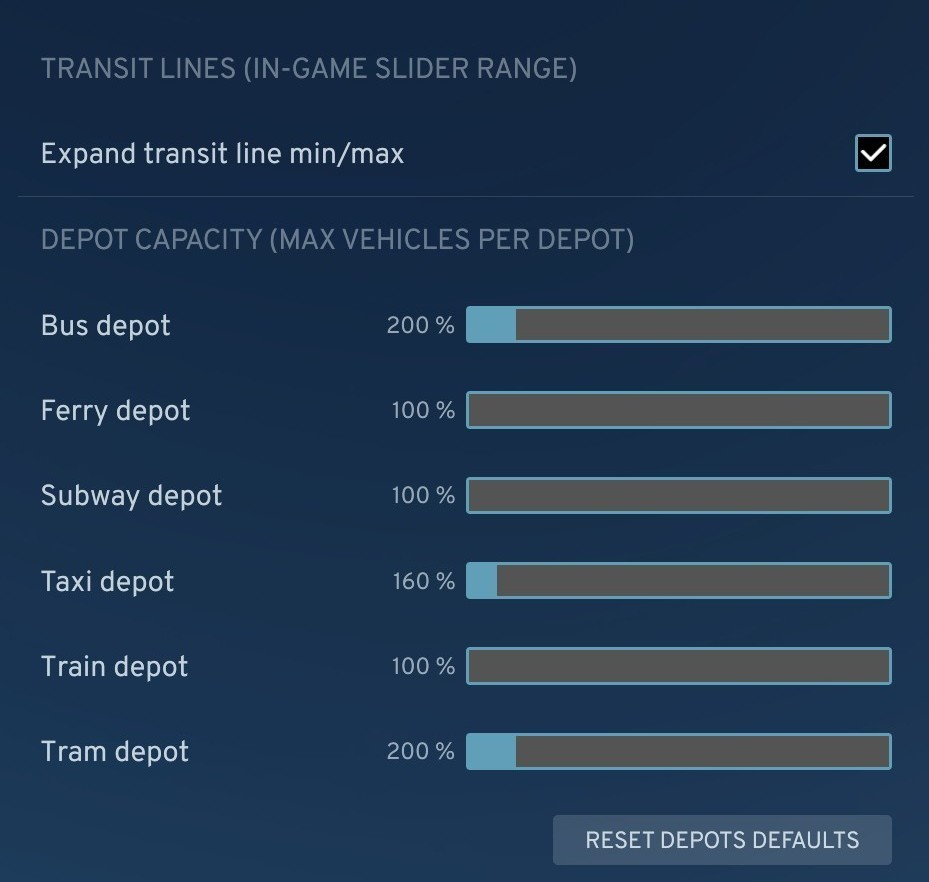
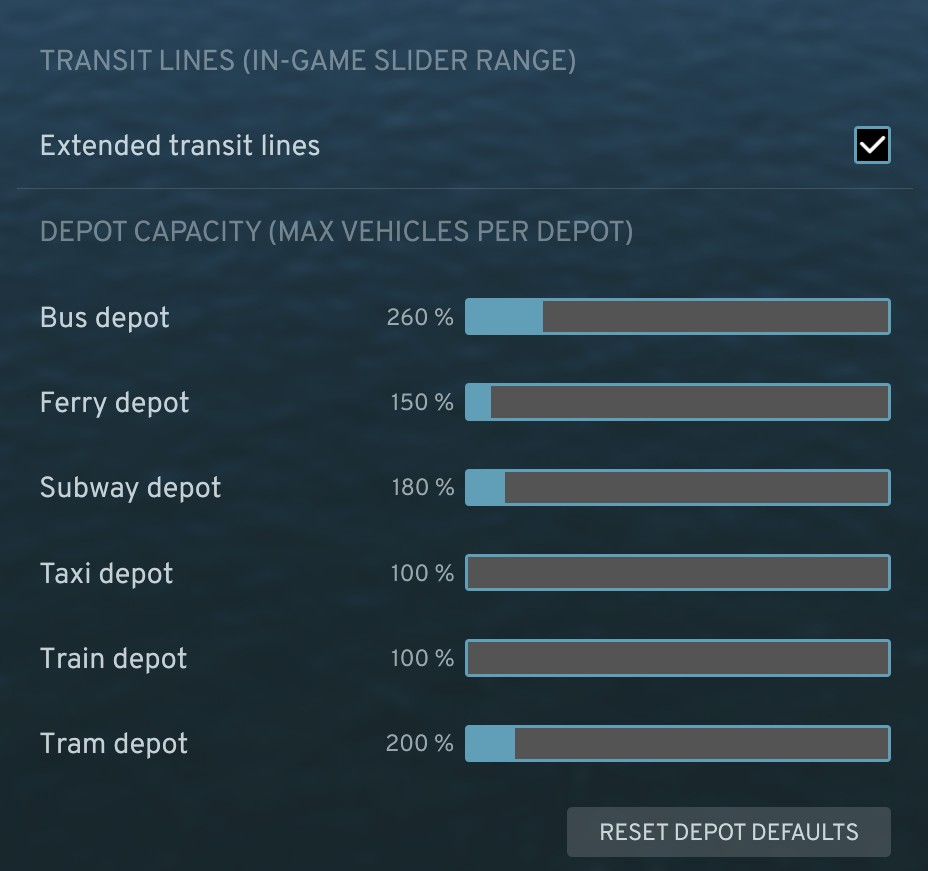
update docs

diff --git a/Localization/LocaleEN.cs b/Localization/LocaleEN.cs
@@ -47,11 +47,10 @@ namespace AdjustTransit
                 { m_Setting.GetOptionLabelLocaleID(nameof(Setting.EnableLineVehicleCountTuner)), "Extended transit lines" },
                 { m_Setting.GetOptionDescLocaleID(nameof(Setting.EnableLineVehicleCountTuner)),
                     "Expands the **range** of the in-game Transit Line Slider per route.\n" +
-                    "**As low as (1)** on all routes tested.\n" +
-                    "**Maximum limit varies**; all tested routes reached at least 3× higher than vanilla.\n" +
+                    "**As low as (1)** bus or other type on routes.\n" +
+                    "**Maximum limit varies**; all tested routes reached ~3× or higher than vanilla.\n" +
                     "Tech note: game uses route time (driving time + stop count), so the maximum is variable rather than static.\n" +
-                    "Works for bus, ferry, tram, train, subway, ship, and airplane.\n\n" +
-                    "<Conflict warning>: if Public Works Plus or another mod edits the same Transit Line policy, keep this feature enabled in only one mod."
+                    "<Conflict warning>: if Public Works Plus or another mod edits the same Transit Line policy, disable the other mod or this checkbox [ ]"
                 },
 
                 // Depot capacity sliders
@@ -202,7 +201,7 @@ namespace AdjustTransit
                 { m_Setting.GetOptionLabelLocaleID(nameof(Setting.EnableDebugLogging)), "Verbose debug logs" },
                 { m_Setting.GetOptionDescLocaleID(nameof(Setting.EnableDebugLogging)),
                     "Sends extra details to this mod's log file for debugging.\n" +
-                    "**Disable** for normal gameplay as excessive logs decreases performance.\n" +
+                    "**Disable** for normal gameplay, as excessive logs can reduce performance.\n" +
                     "<This only increases logging and does not change gameplay values.>"
                 },
 

diff --git a/Localization/LocaleFR.cs b/Localization/LocaleFR.cs
@@ -198,10 +198,9 @@ namespace AdjustTransit
                 { m_Setting.GetOptionLabelLocaleID(nameof(Setting.OpenDiscord)), "Discord" },
                 { m_Setting.GetOptionDescLocaleID(nameof(Setting.OpenDiscord)), "Ouvre le Discord de la communauté dans un navigateur." },
 
-                { m_Setting.GetOptionLabelLocaleID(nameof(Setting.EnableDebugLogging)), "Journaux debug détaillés" },
                 { m_Setting.GetOptionDescLocaleID(nameof(Setting.EnableDebugLogging)),
-                    "Envoie des détails supplémentaires dans le fichier journal de ce mod pour le dépannage.\n" +
-                    "**Désactiver** pour une partie normale.\n" +
+                    "Envoie des détails supplémentaires dans le fichier journal de ce mod pour le débogage.\n" +
+                    "**Désactiver** pour une partie normale, car une journalisation excessive peut réduire les performances.\n" +
                     "<Cela augmente seulement la journalisation et ne change pas les valeurs de gameplay.>"
                 },
 
